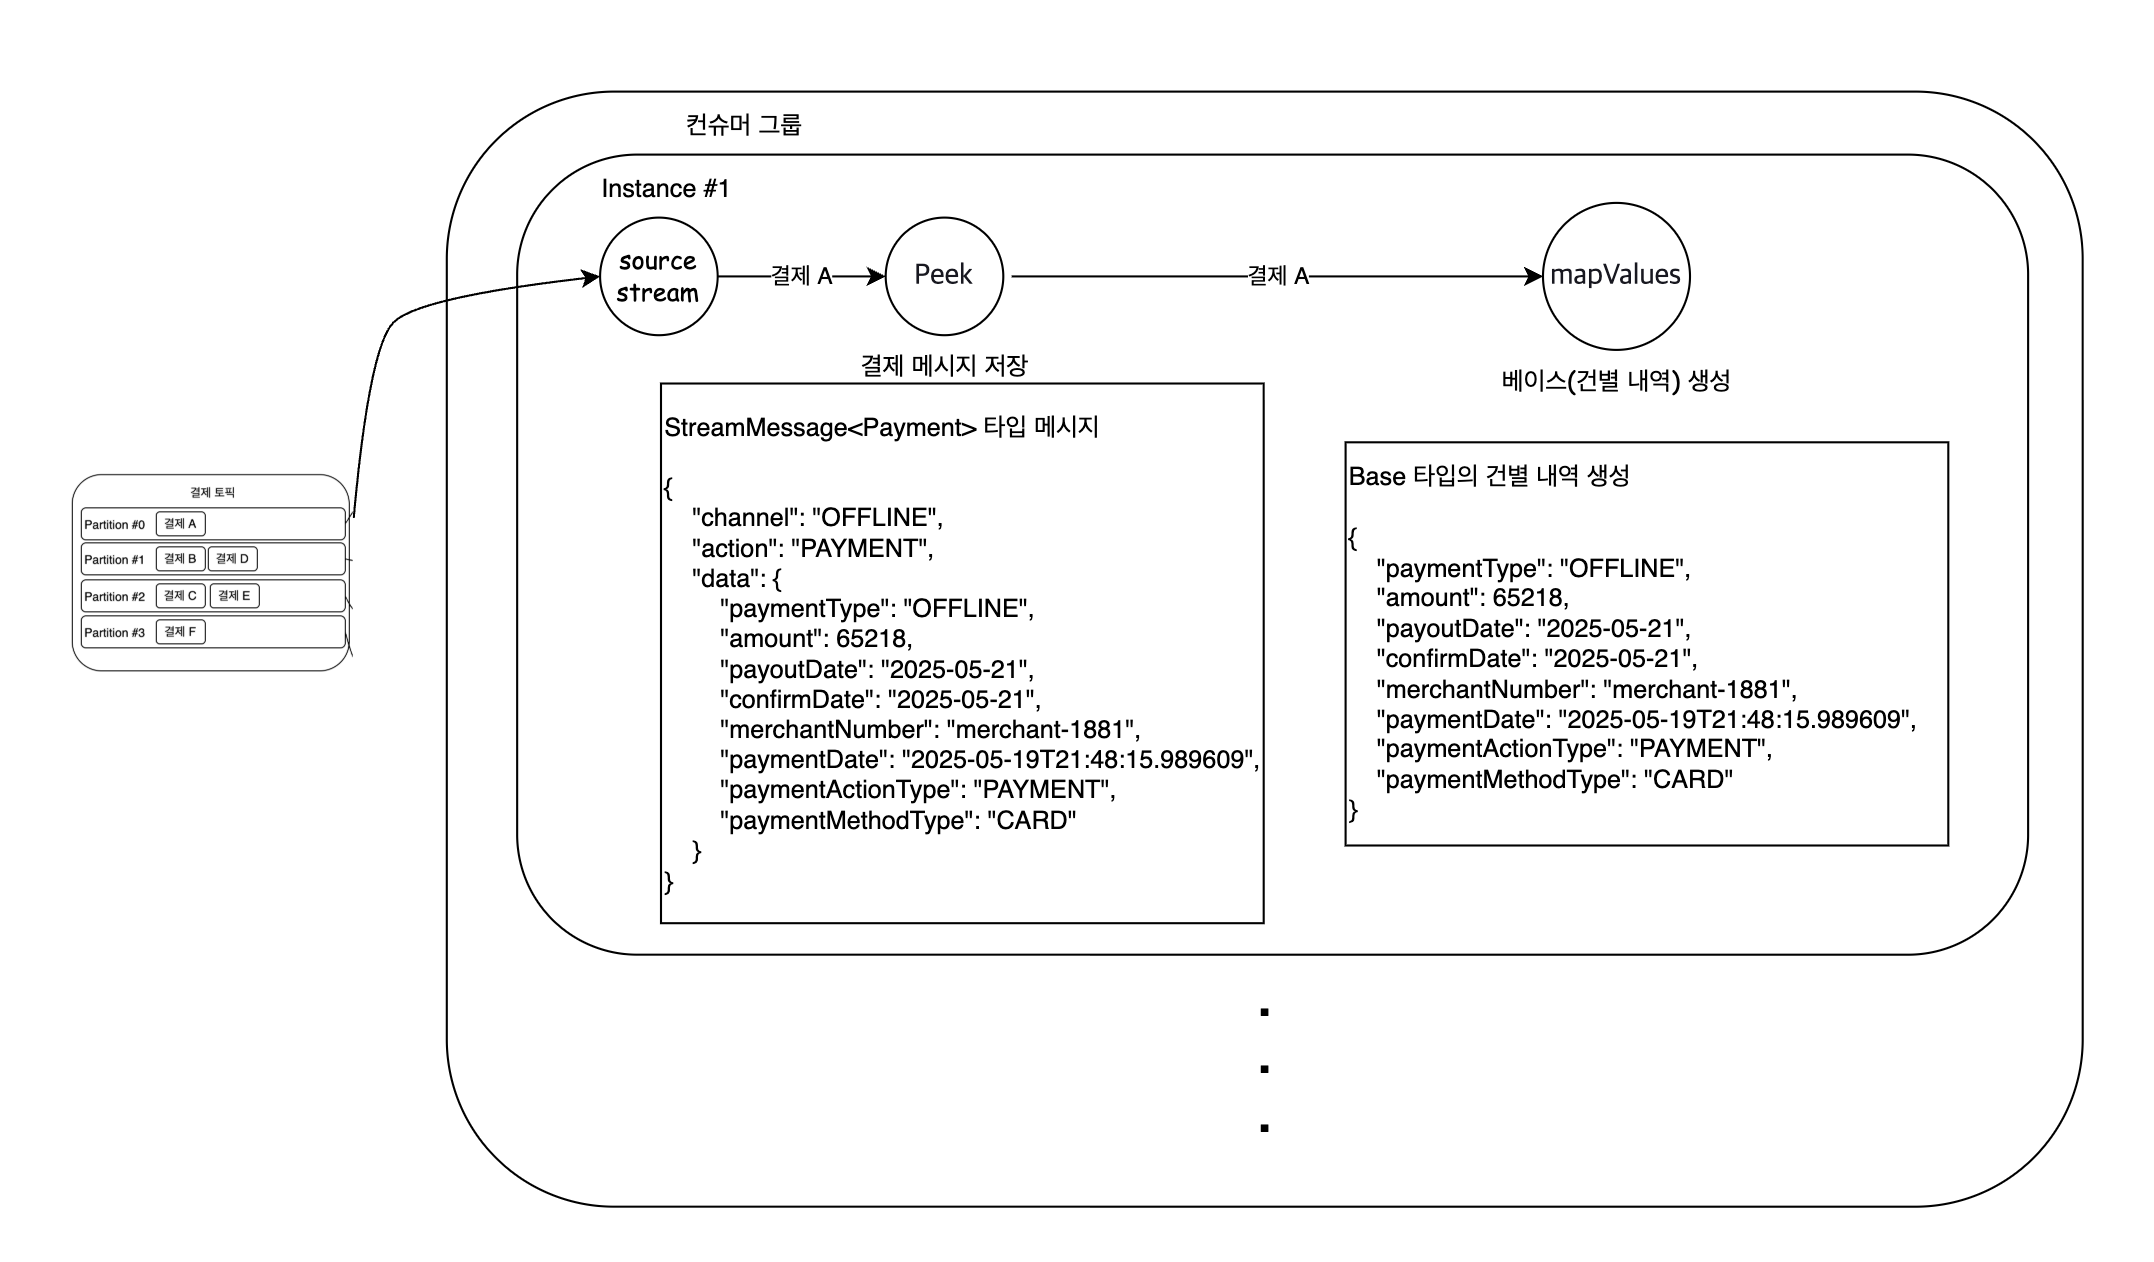
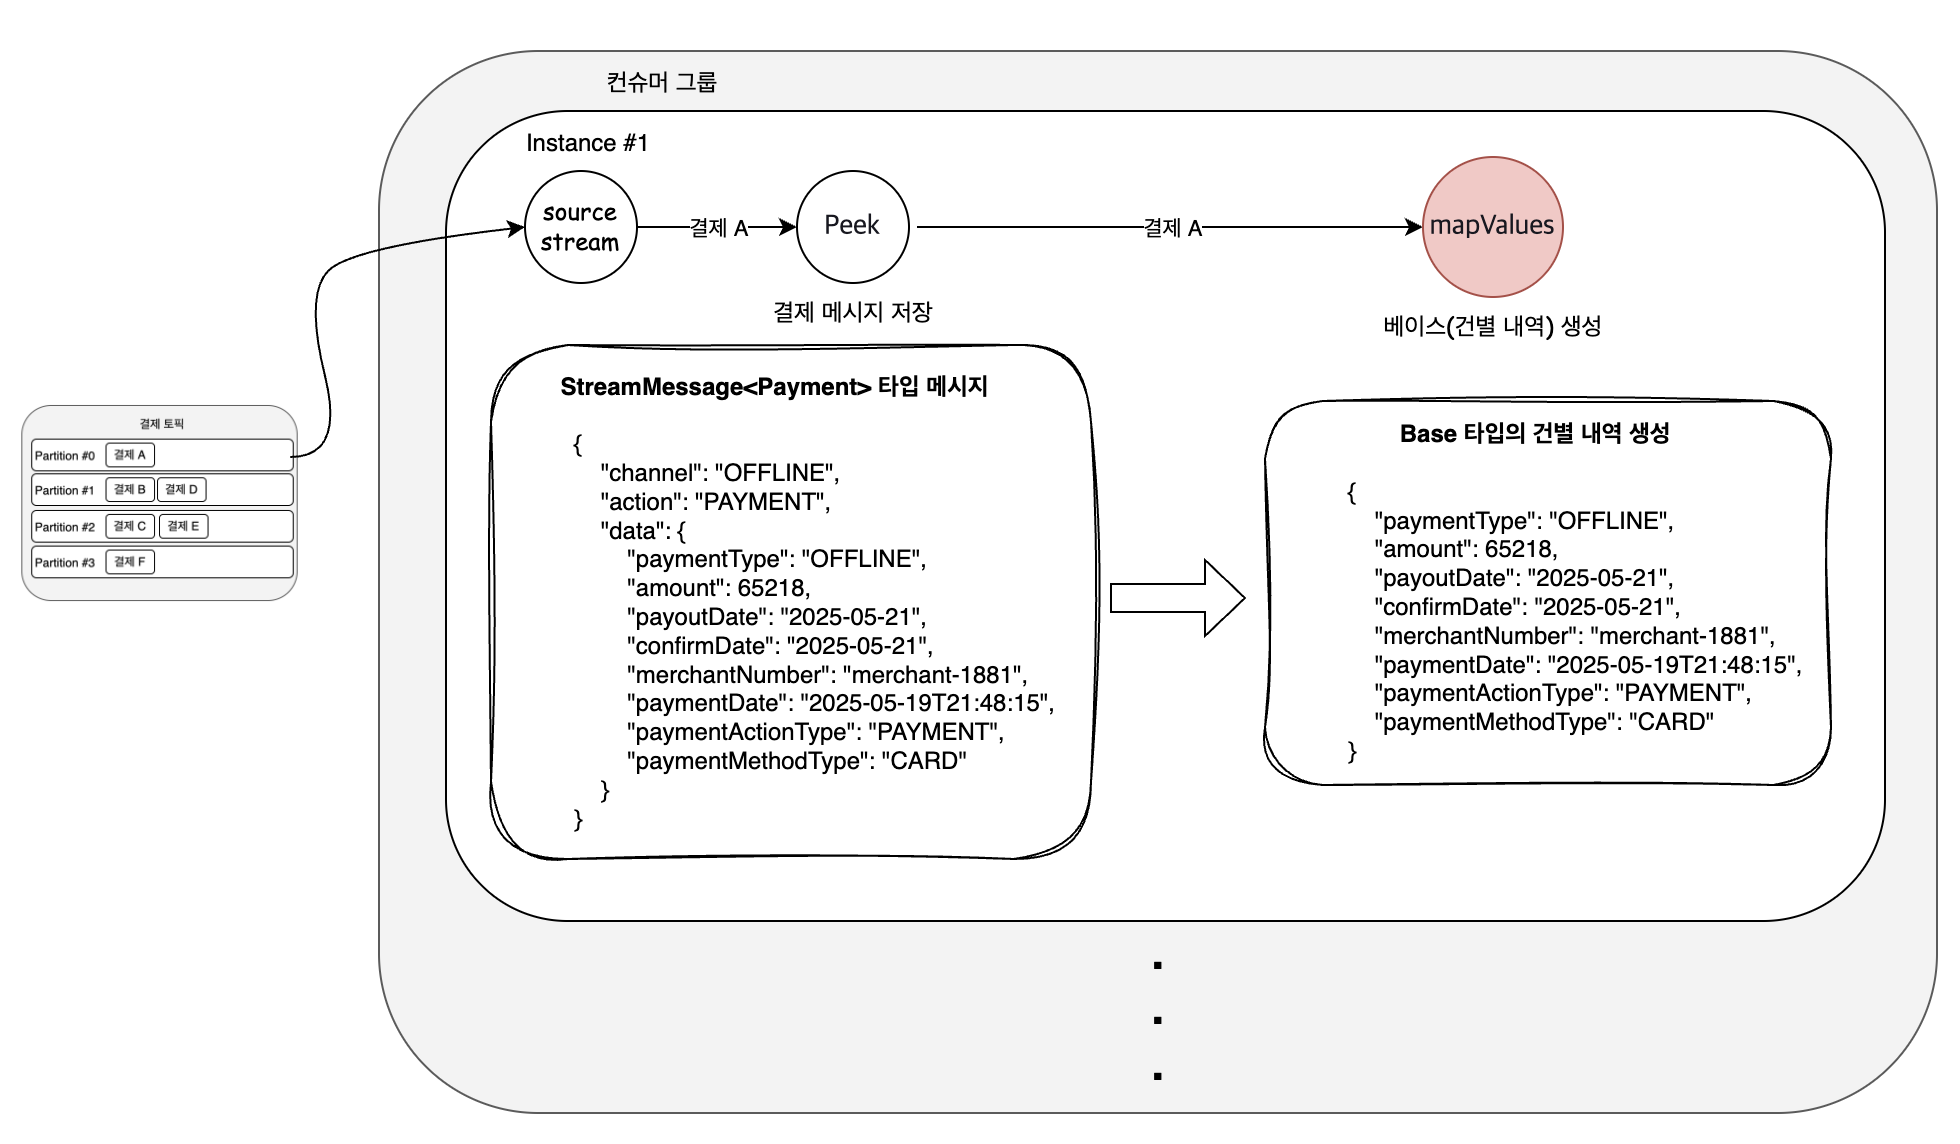
[settlement kafka streams] fix: contents
3단계. 결제 데이터로 정산 베이스 생성

diff --git a/projects/kafka-streams-study/README.md b/projects/kafka-streams-study/README.md
@@ -191,13 +191,9 @@ paymentStream
 
 ### 2단계. 결제 메시지 저장
 
-<center>
-  <img src="https://github.com/jihunparkme/blog/blob/main/img/kafka-streams/example-peek.png?raw=true" width="80%">
-</center>
+![결제 메시지 저장](https://github.com/jihunparkme/blog/blob/main/img/kafka-streams/example-peek.png?raw=true)
 
-`stream` 메서드를 통해 수신되는 결제 데이터를 [peek](https://docs.confluent.io/platform/7.9/streams/javadocs/javadoc/org/apache/kafka/streams/kstream/KStream.html#peek-org.apache.kafka.streams.kstream.ForeachAction-) 연산에 적용된 람다 함수를 통해 로그에 저장합니다. `peek` 메서드는 각 레코드에 대해 작업을 수행하고 변경되지 않은 스트림을 반환합니다.
-- peek는 로깅이나 메트릭 추적, 디버깅 및 트러블슈팅과 같은 상황에 유용하게 사용할 수 있습니다.
-- 스트림 데이터에 대한 수정 작업이 필요할 경우 `map`, `mapValues` 같은 메서드를 사용할 수 있습니다.
+`stream` 메서드를 통해 수신되는 결제 데이터를 [peek](https://docs.confluent.io/platform/7.9/streams/javadocs/javadoc/org/apache/kafka/streams/kstream/KStream.html#peek-org.apache.kafka.streams.kstream.ForeachAction-) 연산에 적용된 람다 함수를 통해 로그에 저장합니다. `peek` 메서드는 각 레코드에 대해 작업을 수행하고 변경되지 않은 스트림을 반환합니다. peek는 로깅이나 메트릭 추적, 디버깅 및 트러블슈팅과 같은 상황에 유용하게 사용할 수 있습니다. 만일 스트림 데이터에 대한 수정 작업이 필요할 경우 `map`, `mapValues` 같은 메서드를 사용할 수 있습니다.
   
 ```kotlin
 paymentStream // 스트림을 통해 들어오는 모든 결제 메시지를 로그로 저장
@@ -206,35 +202,29 @@ paymentStream // 스트림을 통해 들어오는 모든 결제 메시지를 로
 
 ### 3단계. 결제 데이터로 정산 베이스 생성
 
-<center>
-  <img src="https://github.com/jihunparkme/blog/blob/main/img/kafka-streams/example-mapValue.png?raw=true" width="100%">
-</center>
+![결제 데이터로 정산 베이스 생성](https://github.com/jihunparkme/blog/blob/main/img/kafka-streams/example-mapValue.png?raw=true)
 
-[mapValues](https://docs.confluent.io/platform/7.9/streams/javadocs/javadoc/org/apache/kafka/streams/kstream/KStream.html#map-org.apache.kafka.streams.kstream.KeyValueMapper-) 메서드를 통해 기존 스트림의 메시지 키는 유지하면서 값을 기존 타입(`StreamMessage<Payment>`)에서 새로운 타입(`Base`)으로 변환합니다.
-
+[mapValues](https://docs.confluent.io/platform/7.9/streams/javadocs/javadoc/org/apache/kafka/streams/kstream/KStream.html#map-org.apache.kafka.streams.kstream.KeyValueMapper-) 메서드를 통해 스트림의 각 레코드에 대해 키는 그대로 유지하면서, 값만을 새로운 타입(`Base`)으로 변환합니다. 변환 로직은 인자로 전달된 `ValueMapper` 인터페이스의 구현체에 의해 정의됩니다.
 ```kotlin
 paymentStream
     .mapValues(BaseMapper())
 ```
 
-mapValues 연산자에 전달하기 위한 `ValueMapper` 구현체를 정의합니다.
-- `ValueMapper<V, VR>` 인터페이스는 입력 값 타입 `V`를 출력 값 타입 `VR`로 변환하는 역할을 합니다.
-- 여기서 `V`는 `StreamMessage<Payment>`이고, `VR`은 `Base`입니다.
-- 기존 스트림의 각 `StreamMessage<Payment>` 값을 `Base` 객체로 어떻게 변환할지에 대한 구체적인 로직을 정의합니다.
+`mapValues` 메서드에 전달하기 위한 `ValueMapper` 구현체를 정의해 보겠습니다. `ValueMapper<V, VR>` 인터페이스는 입력 값 타입 `V`를 출력 값 타입 `VR`로 변환하는 역할을 합니다. 여기서 입력 값 타입 `V`는 `StreamMessage<Payment>`, 출력 값 타입 `VR`은 `Base`에 해당하고, 기존 스트림의 값을 어떻게 변환할지에 대한 구체적인 로직을 정의합니다.
 
 ```kotlin
-class BaseMapper() : ValueMapper<StreamMessage<Payment>, Base> {
+class BaseMapper() : ValueMapper<StreamMessage<Payment>, Base> { // ValueMapper 인터페이스 구현
   // 스트림의 각 메시지에 대해 apply 메서드를 호출하며, 메시지의 값을 인자로 전달
   override fun apply(payment: StreamMessage<Payment>): Base {
-    return Base(
-      paymentType = payment.data?.paymentType ?: throw IllegalArgumentException(),
+    return Base( // 입력으로 받은 객체의 데이터를 사용하여 새로운 객체를 생성하고 반환
+      paymentType = payment.data?.paymentType,
       amount = payment.data.amount,
       payoutDate = payment.data.payoutDate,
       confirmDate = payment.data.confirmDate,
-      merchantNumber = payment.data.merchantNumber ?: throw IllegalArgumentException(),
+      merchantNumber = payment.data.merchantNumber,
       paymentDate = payment.data.paymentDate,
-      paymentActionType = payment.data.paymentActionType ?: throw IllegalArgumentException(),
-      paymentMethodType = payment.data.paymentMethodType ?: throw IllegalArgumentException(),
+      paymentActionType = payment.data.paymentActionType,
+      paymentMethodType = payment.data.paymentMethodType,
     )
   }
 }
